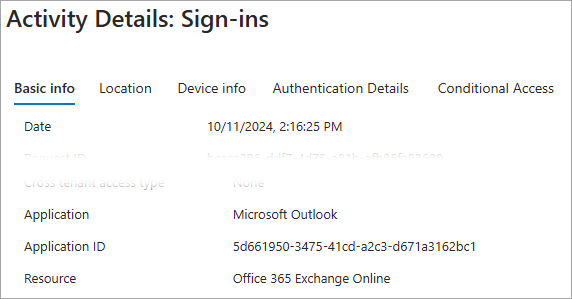
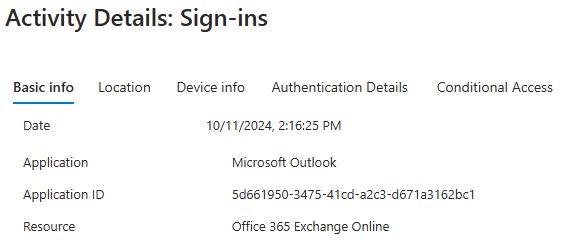
Art file updated.
The Application ID is what identifies the sign in was for new Outlook. It's important that this ID is displayed in the screenshot.

diff --git a/microsoft-365-apps/outlook/manage/monitor-usage-reports.md b/microsoft-365-apps/outlook/manage/monitor-usage-reports.md
@@ -29,7 +29,7 @@ Microsoft Entra ID reporting can be filtered to the application ID in this dashb
 1. In the Application window, enter **Microsoft Outlook** and select **Apply**. The results show all login events for new Outlook.
 1. To ensure these entries are for new Outlook, select an entry from the list of results. In **Active Details: Sign-ins** look for **Application ID**. The ID **5d661950-3475-41cd-a2c3-d671a3162bc1** is the new Outlook ID and confirms this sign-in was for new Outlook.
 
-:::image type="content" source="media/Outlook-Entra-ActivityDetails.png" alt-text="Screenshot of Activity Details: Sign-ins window":::
+:::image type="content" source="media/outlook-entra-activitydetails.png" alt-text="Screenshot of Activity Details: Sign-ins window showing Application and Application ID entries.":::
 
 Results are limited to 100,000 items. If the results exceed that, you can filter to a shorter time period using the **Date** filter.
 
